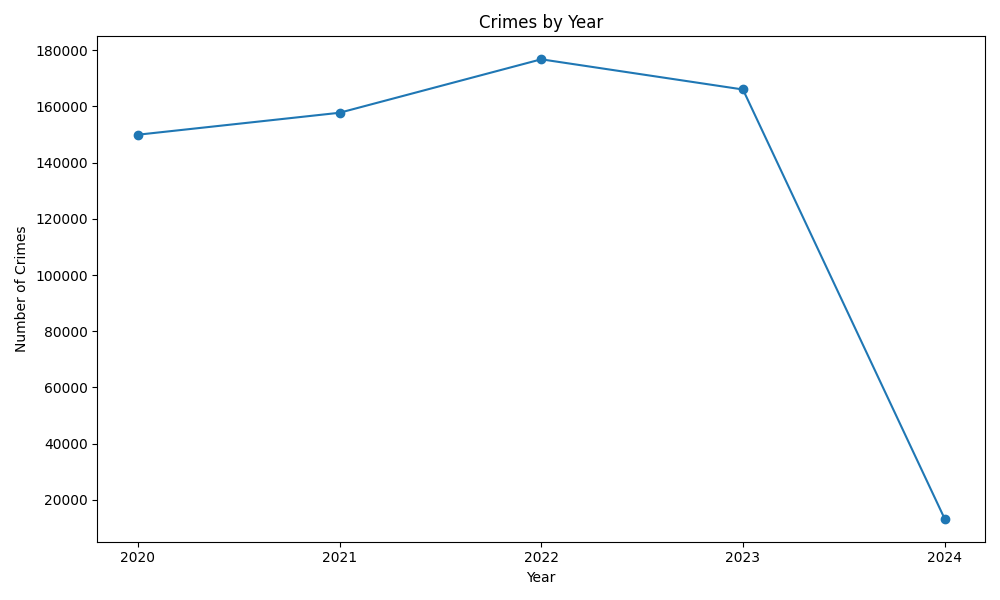
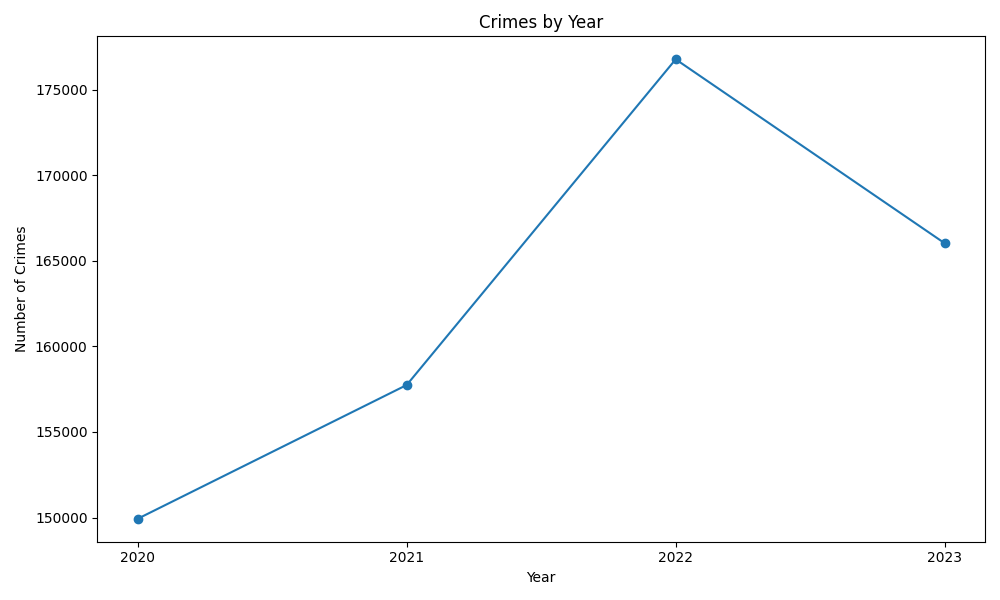
deeper analysis and clean up charts#

diff --git a/03_visualize.py b/03_visualize.py
@@ -28,19 +28,6 @@ plt.tight_layout()
 plt.savefig("charts/crimes_by_year.png")
 plt.close()
 
-# Crimes by month
-plt.figure(figsize=(10,6))
-months_order = [1, 2, 3, 4, 5, 6, 7, 8, 9, 10, 11, 12]
-monthly_crime = df['month'].value_counts().sort_index()
-plt.bar(monthly_crime.index, monthly_crime.values)
-plt.xticks(range(1, 13), ['Jan', 'Feb', 'Mar', 'Apr', 'May', 'Jun', 'Jul', 'Aug', 'Sep', 'Oct', 'Nov', 'Dec'])
-plt.title("Crimes by Month")
-plt.xlabel("Month")
-plt.ylabel("Number of Crimes")
-plt.tight_layout()
-plt.savefig("charts/crimes_by_month.png")
-plt.close()
-
 # Crimes by hours
 plt.figure(figsize=(10,6))
 hourly_crime = df['hour'].value_counts().sort_index()
@@ -53,19 +40,6 @@ plt.tight_layout()
 plt.savefig("charts/crimes_by_hour.png")
 plt.close()
 
-
-# Crimes by day of week
-plt.figure(figsize=(10,6))
-days_order = ['Monday', 'Tuesday', 'Wednesday', 'Thursday', 'Friday', 'Saturday', 'Sunday']
-daily_crime = df['day_of_week'].value_counts().reindex(days_order)
-plt.bar(daily_crime.index, daily_crime.values)
-plt.title("Crimes by Day of Week")
-plt.xlabel("Day of Week")
-plt.ylabel("Number of Crimes")
-plt.tight_layout()
-plt.savefig("charts/crimes_by_day.png")
-plt.close()
-
 # Top 10 most dangerous areas
 plt.figure(figsize=(10,6))
 dangerous_areas = df['area'].value_counts().head(10).sort_values(ascending=True)
@@ -75,17 +49,6 @@ plt.xlabel("Area in LA")
 plt.ylabel("Number of Crimes")
 plt.tight_layout()
 plt.savefig("charts/top_crime_areas.png")
-plt.close()
-
-# Male vs Female
-plt.figure(figsize=(10,6))
-crimes_by_sex = df['victim_sex'].value_counts()
-plt.bar(crimes_by_sex.index, crimes_by_sex.values)
-plt.title("Victims by Sex")
-plt.xlabel("Sex")
-plt.ylabel("Number of Crimes")
-plt.tight_layout()
-plt.savefig("charts/victims_by_sex.png")
 plt.close()
 
 # Vicitim age distribution
@@ -112,14 +75,73 @@ plt.savefig("charts/days_to_report.png")
 plt.close()
 
 # Reporting delay by crime type
-plt.figure(figsize=(10, 6))
-df_filtered = df[[]]
-part1 = df_filtered[df_filtered['crime_seriousness'] == 1]['days_to_report']
-part2 = df_filtered[df_filtered['crime_seriousness'] == 2]['days_to_report']
-plt.boxplot([part1, part2], labels=['Part 1 (Serious)', 'Part 2 (Less Serious)'])
-plt.title("Days to Report by Crime Seriousness (within 15 days)")
-plt.xlabel("Crime Seriousness")
+plt.figure(figsize=(14, 6))
+df_filtered = df[(df['days_to_report'] <= 15) & (df['days_to_report'] >= 0)]
+top_crimes = df_filtered['crime'].value_counts().head(10).index
+data = [df_filtered[df_filtered['crime'] == crime]['days_to_report'].values for crime in top_crimes]
+plt.boxplot(data, tick_labels=top_crimes)
+plt.title("Reporting Delay by Crime Type (Top 10)")
+plt.xlabel("Crime Type")
 plt.ylabel("Days to Report")
+plt.xticks(rotation=45, ha='right')
 plt.tight_layout()
-plt.savefig("charts/days_to_report.png")
+plt.savefig("charts/reporting_delay_by_crime.png")
+plt.close()
+
+# Crime heatmap
+plt.figure(figsize=(15, 6))
+pivot = df.pivot_table(index='day_of_week', columns='hour', aggfunc='size', fill_value=0)
+days_order = ['Monday', 'Tuesday', 'Wednesday', 'Thursday', 'Friday', 'Saturday', 'Sunday']
+pivot = pivot.reindex(days_order)
+plt.imshow(pivot, aspect='auto', cmap='YlOrRd')
+plt.colorbar(label='Number of Crimes')
+plt.xticks(range(24), range(24))
+plt.yticks(range(7), days_order)
+plt.title("Crime Heatmap by Hour and Day")
+plt.xlabel("Hour of Day")
+plt.ylabel("Day of Week")
+plt.tight_layout()
+plt.savefig("charts/heatmap.png")
+plt.close()
+
+# Crime trends through years
+plt.figure(figsize=(12, 6))
+top5 = df['crime'].value_counts().head(5).index
+trends = df[df['crime'].isin(top5)].groupby(['year', 'crime']).size().unstack()
+
+for crime in trends.columns:
+    plt.plot(trends.index, trends[crime], marker='o', label=crime)
+
+plt.title("Top 5 Crime Trends by Year")
+plt.xlabel("Year")
+plt.ylabel("Number of Crimes")
+plt.xticks([2020, 2021, 2022, 2023])
+plt.legend()
+plt.tight_layout()
+plt.savefig("charts/crime_trends.png")
+plt.close()
+
+# Identity theft age distribution
+plt.figure(figsize=(10,6))
+identity_theft = df[df['crime'] == 'THEFT OF IDENTITY']
+plt.hist(identity_theft['victim_age'], bins=20)
+plt.title("Identity Theft Age Distribution")
+plt.xlabel("Age")
+plt.ylabel("Number of Crimes")
+plt.tight_layout()
+plt.savefig("charts/identity_theft_age_dist.png")
+plt.close()
+
+# Identity theft by % of crime per area
+total_by_area = df.groupby('area').size()
+identity_by_area = df[df['crime'] == 'THEFT OF IDENTITY'].groupby('area').size()
+identity_pct = (identity_by_area / total_by_area * 100).sort_values(ascending=True).tail(10)
+
+plt.figure(figsize=(10,6))
+plt.bar(identity_pct.index, identity_pct.values)
+plt.title("Identity Theft by Percentage of Crime Per Area")
+plt.xlabel("Area")
+plt.ylabel("Percentage")
+plt.tight_layout()
+plt.savefig("charts/identity_crime_percentage.png")
 plt.close()

diff --git a/02_clean_data.py b/02_clean_data.py
@@ -1,11 +1,6 @@
 import pandas as pd
 
 df = pd.read_csv("data/crime_data.csv")
-# print(df.columns.tolist())
-# print(df.dtypes)
-# print(df.head(2))
-
-# print(df.iloc[0])
 
 df = df.drop(columns = ['crm_cd_2', 'crm_cd_3', 'crm_cd_4', 'cross_street', 'mocodes', 'weapon_used_cd', 'rpt_dist_no', 'dr_no', 'crm_cd', 'crm_cd_1', 'premis_cd', 'area', 'status'])
 df = df.dropna(subset=['crm_cd_desc', 'vict_age', 'vict_sex', 'lat', 'lon'])
@@ -18,8 +13,10 @@ df['hour'] = df['time_occ'] // 100
 
 df['month'] = df['date_occ'].dt.month    
 df['day_of_week'] = df['date_occ'].dt.day_name() 
-df['year'] = df['date_occ'].dt.year  
+df['year'] = df['date_occ'].dt.year
+df = df[df['year'] != 2024]   
 
+#create how many days it took to report crime column
 df['date_rptd'] = pd.to_datetime(df['date_rptd'])
 df['days_to_report'] = (df['date_rptd'] - df['date_occ']).dt.days
 
@@ -42,3 +39,4 @@ df = df.rename(columns={
 
 df.to_csv("data/cleaned_crime_data.csv", index=False)
 print(f"Cleaned data saved: {df.shape[0]} rows, {df.shape[1]} columns")
+print(df.columns.tolist())
